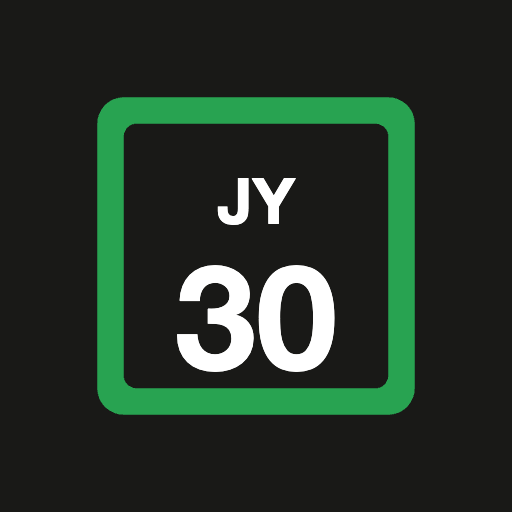
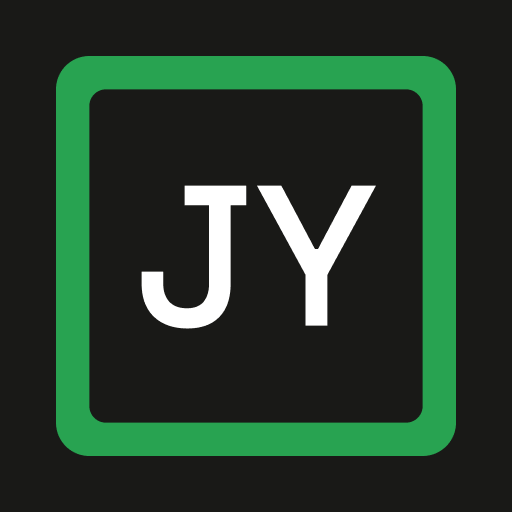
Further tweaks

diff --git a/js/app.js b/js/app.js
@@ -280,6 +280,13 @@
        · artwork . the JY station-number sign (js/artwork.js)
      ─────────────────────────────────────────────────────────────────────── */
   const hasMediaSession = "mediaSession" in navigator;
+  // iOS renders the lock-screen ±skip (seek) buttons instead of prev/next track
+  // icons whenever a track duration is reported via setPositionState — it treats
+  // the audio as long-form scrubbable content. Suppressing position state on iOS
+  // makes Safari fall back to the music-player layout with real prev/next icons.
+  const isIOS = /iP(hone|ad|od)/.test(navigator.platform) ||
+    (/Mac/.test(navigator.platform) && navigator.maxTouchPoints > 1) ||
+    /iPhone|iPad|iPod/.test(navigator.userAgent);
 
   // The literal next stop on the line in the current loop direction (inner
   // ascends JY, outer descends), wrapping around the loop.
@@ -304,7 +311,7 @@
   }
 
   function updatePositionState() {
-    if (!hasMediaSession || !navigator.mediaSession.setPositionState) return;
+    if (!hasMediaSession || isIOS || !navigator.mediaSession.setPositionState) return;
     if (!current || !isFinite(current.duration) || current.duration <= 0) return;
     try {
       navigator.mediaSession.setPositionState({
@@ -426,6 +433,11 @@
 
   stage.addEventListener("touchmove", (e) => {
     if (!dragging || committed) return;
+    // The body is pinned (position:fixed) so the page can't actually scroll,
+    // but iOS Safari still flashes its scrollbar indicator on a vertical
+    // touch-drag unless the gesture is explicitly consumed. This listener is
+    // non-passive precisely so we can preventDefault and stop that flash.
+    if (e.cancelable) e.preventDefault();
     const y = e.touches[0].clientY;
     const dt = e.timeStamp - lastT;
     if (dt > 0) vel = (y - lastY) / dt;     // instantaneous velocity (px/ms)
@@ -439,7 +451,7 @@
       return;
     }
     ribbon.style.transform = "translateY(" + follow(dy) + "px)";
-  }, { passive: true });
+  }, { passive: false });
 
   function endDrag(endY) {
     if (!dragging) return;

diff --git a/sw.js b/sw.js
@@ -1,10 +1,10 @@
 /* Yamanote Line PWA — offline app shell */
-const CACHE = "yamanote-v23";
+const CACHE = "yamanote-v27";
 const ASSETS = [
   "index.html",
-  "css/styles.css?v=23",
-  "js/stations.js?v=25",
-  "js/app.js?v=28",
+  "css/styles.css?v=24",
+  "js/stations.js?v=27",
+  "js/app.js?v=29",
   "manifest.webmanifest",
   "icons/icon-192.png",
   "icons/icon-512.png",

diff --git a/css/styles.css b/css/styles.css
@@ -69,6 +69,7 @@ html, body {
   height: 100vh;
   background: var(--bg);
   overscroll-behavior: none;
+  overflow: hidden;
   /* disable the double-tap-to-zoom gesture (iOS ignores user-scalable=no).
      In Safari it stops the zoom; in the installed PWA it prevents the
      standalone viewport from snapping to a zoomed, mis-aligned state where
@@ -82,6 +83,12 @@ body {
   -webkit-font-smoothing: antialiased;
   text-rendering: optimizeLegibility;
   user-select: none;
+  /* pin the body to the viewport so a touch-swipe can never scroll the page
+     (which is what flashes the iOS scrollbar). .app is position:fixed, so
+     fixing the body too doesn't affect its layout. */
+  position: fixed;
+  inset: 0;
+  width: 100%;
 }
 
 /* full-bleed app surface, centred on a phone-width column.

diff --git a/index.html b/index.html
@@ -16,7 +16,7 @@
 <link rel="preconnect" href="https://fonts.googleapis.com" />
 <link rel="preconnect" href="https://fonts.gstatic.com" crossorigin />
 <link href="https://fonts.googleapis.com/css2?family=Space+Grotesk:wght@500;700&display=swap" rel="stylesheet" />
-<link rel="stylesheet" href="css/styles.css?v=23" />
+<link rel="stylesheet" href="css/styles.css?v=24" />
 <script>
   /* Flag the installed/fullscreen PWA so the stylesheet can give it its own
      chrome spacing (navigator.standalone covers iOS versions that don't
@@ -68,8 +68,8 @@
     </div>
   </div>
 
-  <script src="js/stations.js?v=25"></script>
-  <script src="js/app.js?v=28"></script>
+  <script src="js/stations.js?v=27"></script>
+  <script src="js/app.js?v=29"></script>
   <script>
     if ("serviceWorker" in navigator) {
       window.addEventListener("load", () => {